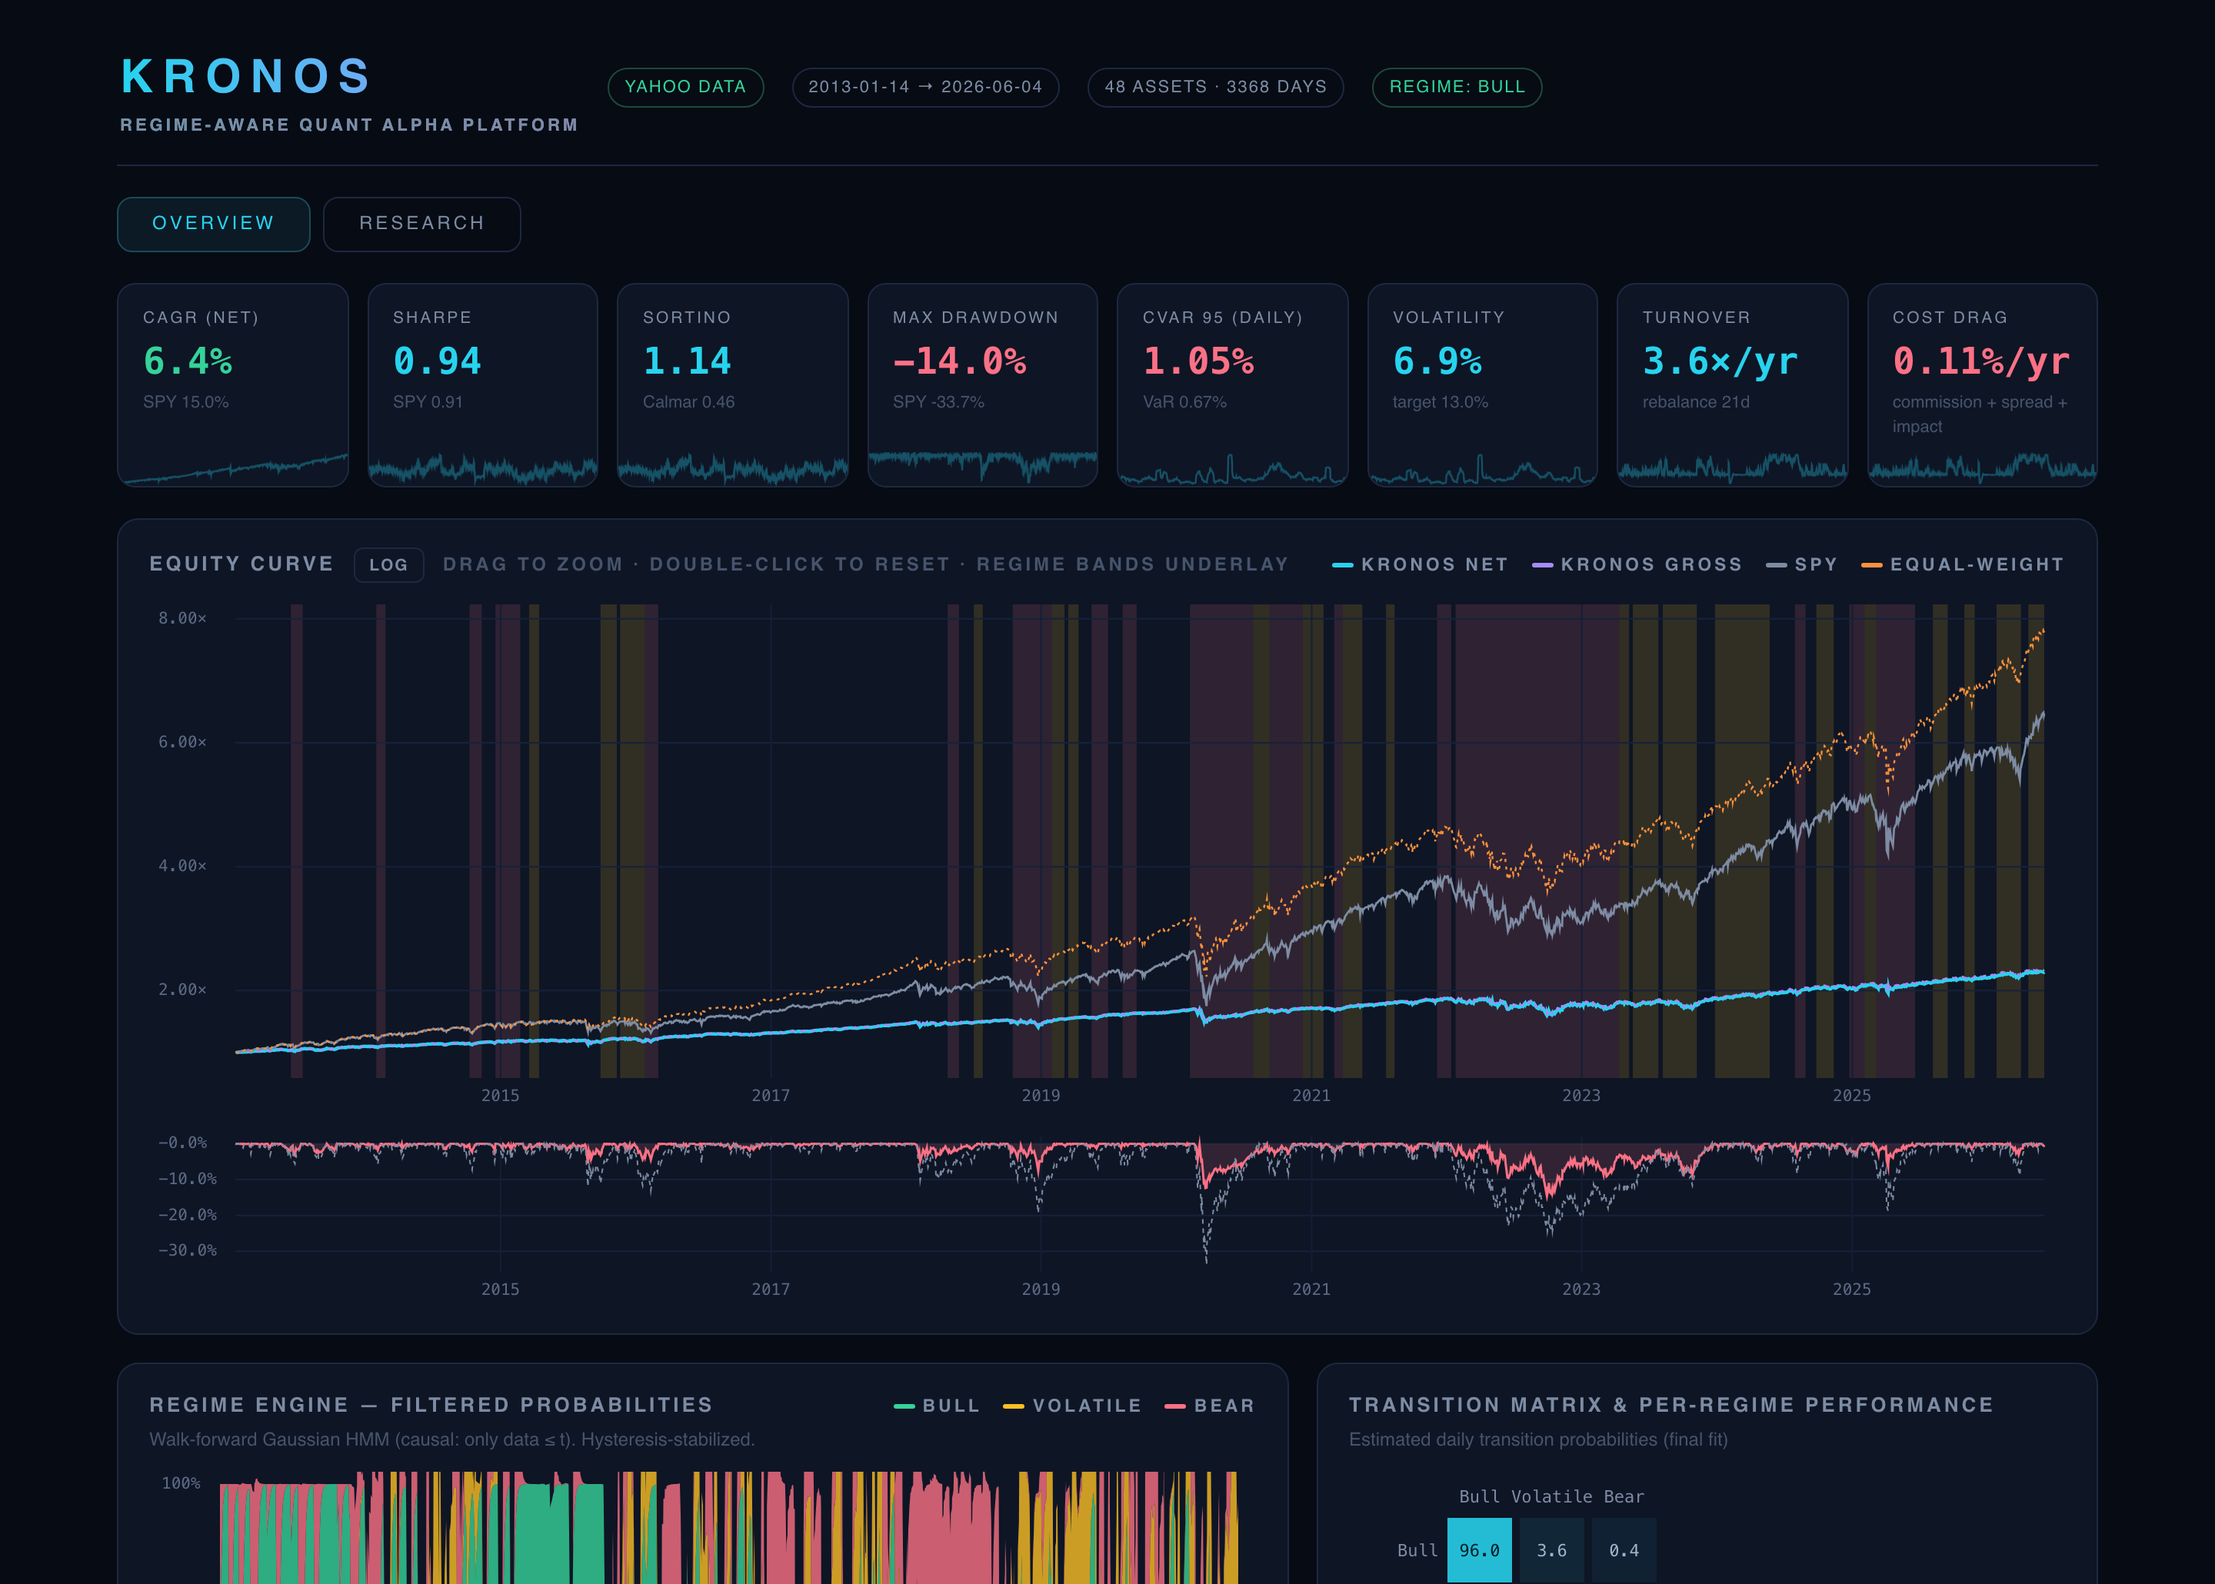
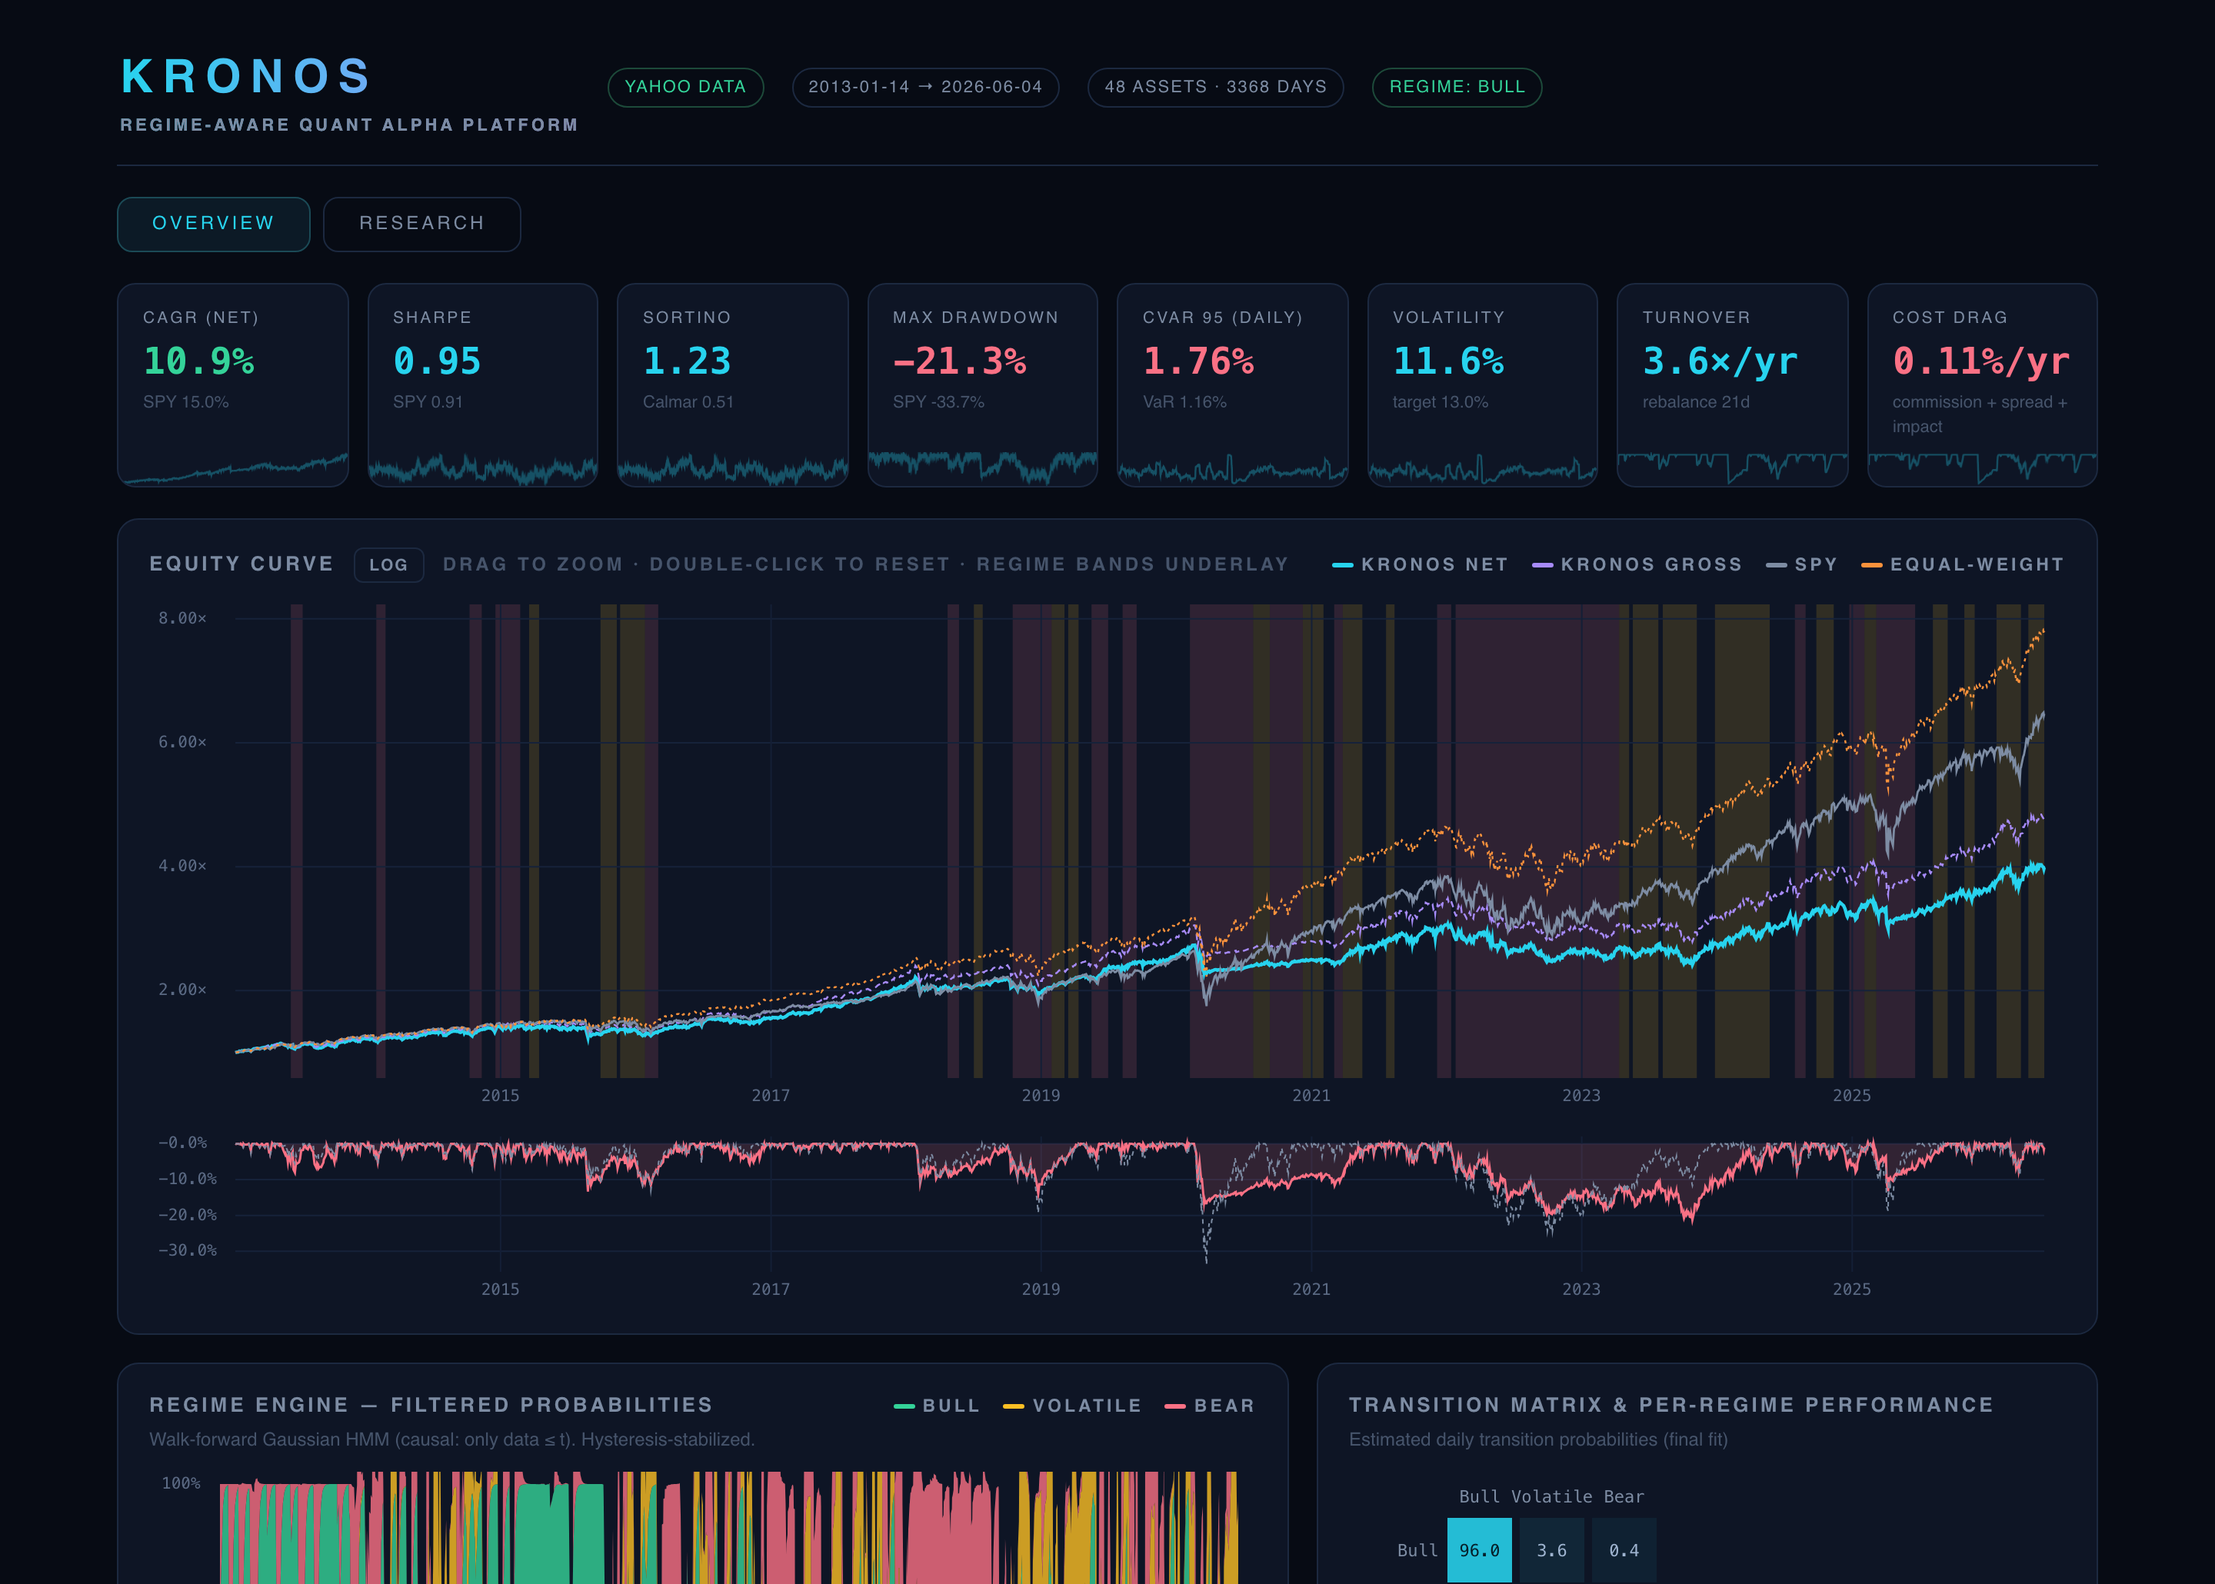
Docs: KRONOS-EDGE results — new headline (Sharpe 0.95 @ 10.9% CAGR), gate count 30 -> 31
README platform table now shows levered + unlevered + SPY with financing and
DSR/PBO caveats restated; EDGE rows in the research table and index; FINDINGS
gains the full EDGE write-up (diagnosis, bug, fix, before/after, trial
accounting); TRADE section updated to post-fix numbers; hero screenshot
regenerated with the repaired equity curve.

diff --git a/README.md b/README.md
@@ -7,7 +7,7 @@
 
 <p align="center">
   <a href="https://github.com/Olivesz/kronos-quant/actions/workflows/ci.yml"><img src="https://github.com/Olivesz/kronos-quant/actions/workflows/ci.yml/badge.svg" alt="CI"></a>
-  <img src="https://img.shields.io/badge/gates-30%20passing-3fb950" alt="gates">
+  <img src="https://img.shields.io/badge/gates-31%20passing-3fb950" alt="gates">
   <img src="https://img.shields.io/badge/python-3.11%2B-3572A5" alt="python">
   <img src="https://img.shields.io/badge/deps-numpy%20%7C%20pandas%20%7C%20scipy-013243" alt="deps">
   <img src="https://img.shields.io/badge/license-MIT-blue" alt="license">
@@ -25,8 +25,8 @@ KRONOS is two things at once:
 1. **A production-shaped quant platform** — data → regime detection → alpha
    sleeves → cost-aware portfolio construction → risk overlay → a
    self-contained interactive dashboard. It runs end-to-end in ~25s and posts a
-   **net Sharpe of 0.94 at −14% max drawdown**, matching the S&P's risk-adjusted
-   return at *less than half* its drawdown.
+   **net Sharpe of 0.95 at 10.9% CAGR** (or Sharpe **1.02** unlevered) — beating
+   the S&P's Sharpe at roughly *two-thirds of its drawdown*.
 
 2. **A research program that treats markets like physics.** 22 pre-registered
    experiments ask what quant finance genuinely does not know — *is volatility
@@ -36,7 +36,7 @@ KRONOS is two things at once:
    results as loudly as the positive ones.
 
 What ties them together is one discipline: **no estimator is trusted until it
-passes a gate on data where the answer is already known.** 30 such gates run in
+passes a gate on data where the answer is already known.** 31 such gates run in
 CI. That is the whole point — the platform grades its own homework.
 
 > **Zero heavyweight dependencies.** No scikit-learn, no statsmodels, no
@@ -68,7 +68,7 @@ python run_research.py all        # 22 research experiments, cached to research/
 python run_kronos.py --research   # dashboard with the RESEARCH tab (open output/dashboard.html)
 python run_trade.py               # today's research-grounded target portfolio
 
-python tests/run_all.py           # all 30 verification gates (~100s)
+python tests/run_all.py           # all 31 verification gates (~100s)
 ```
 
 Runs fully offline: without `yfinance` or a network, a seeded synthetic
@@ -77,7 +77,7 @@ regime-switching market drives the entire pipeline. Force it anywhere with
 
 ## Highlights
 
-- **30 verification gates** — 28 proving an estimator has correct *size*
+- **31 verification gates** — 29 proving an estimator has correct *size*
   (doesn't fire on null worlds) and *power* (detects planted effects) on
   synthetic ground truth, plus 2 calibrating the battery against the real
   market — all before any real-data claim is made.
@@ -116,18 +116,22 @@ prices ─▶ HMM regimes ─▶ regime-gated signals ─▶ HRP + Black-Litterm
 - **Construction** — a Hierarchical-Risk-Parity backbone on a Ledoit-Wolf /
   EWMA-shrunk covariance, tilted toward the combined signal via Black-Litterman,
   long-only with a weight cap.
-- **Risk** — forecast-vol targeting (size *ahead* of volatility, because vol is
-  the forecastable channel) with a drawdown throttle and a CVaR cap, all
-  smoothed and capped at no leverage.
+- **Risk** — vol targeting as the *lever* (up to 1.5×, financing charged on the
+  levered portion) with the CVaR cap and drawdown throttle as *brakes* — the
+  overlay's direction and reach are pinned by their own gate (X27; see
+  [KRONOS-EDGE](docs/FINDINGS.md#kronos-edge--fixing-the-engines-structural-drag)).
 
-| Strategy | CAGR | Sharpe | Max DD | CVaR95 |
-|---|---|---|---|---|
-| **KRONOS (net of costs)** | +6.4% | **0.94** | **−14.0%** | 1.05% |
-| SPY (buy & hold) | +15.0% | 0.91 | −33.7% | 2.55% |
+| Strategy | CAGR | Vol | Sharpe | Max DD | CVaR95 |
+|---|---|---|---|---|---|
+| **KRONOS (net of costs)** | +10.9% | 11.6% | **0.95** | **−21.3%** | 1.76% |
+| KRONOS unlevered (cap 1.0) | +8.8% | 8.7% | **1.02** | −16.4% | 1.31% |
+| SPY (buy & hold) | +15.0% | 16.8% | 0.91 | −33.7% | 2.55% |
 
-*The honest read: KRONOS does **not** beat the S&P on raw return — and says so.
-Its edge is risk-adjusted: the same Sharpe at half the drawdown, exactly the
-claim the research licenses.*
+*The honest read: KRONOS still does **not** beat the S&P on raw return — and
+says so. The edge is risk-adjusted: a better Sharpe at two-thirds of the
+drawdown, with financing costs on leverage disclosed (1.26%/yr) and the
+selection-risk caveats (DSR 0.64, PBO 0.45, N=181 logged trials) restated
+rather than hidden.*
 
 ## The research program
 
@@ -150,6 +154,7 @@ in [`docs/FINDINGS.md`](docs/FINDINGS.md)**:
 | [TRADE](docs/FINDINGS.md#kronos-trade--the-deployable-system) | What system does the science license? | Forecast-vol targeting + regime-gated risk parity + mechanical crash control — risk control, never direction timing. |
 | [TRANSFER](docs/FINDINGS.md#kronos-transfer--does-market-structure-cross-borders) | Do the laws cross borders? | **Mechanism universal, calibration local** — see below. |
 | [CRYPTO](docs/FINDINGS.md#kronos-crypto--do-the-laws-survive-outside-equities) | Do the laws survive outside equities? | Mostly yes — but the **leverage effect inverts** (crypto +0.03 vs equities −0.04; 8/10 coins flip). Mechanism universal; one law is equity-specific. |
+| [EDGE](docs/FINDINGS.md#kronos-edge--fixing-the-engines-structural-drag) | Why is CAGR half the risk budget? | Diagnosis found an **inverted drawdown throttle** (braking at peaks, releasing into crashes) and an unreachable vol target. Fixed + gated: Sharpe 0.94 → 1.02 unlevered; CAGR 6.4% → 10.9% levered. |
 
 ## Cross-market transfer
 
@@ -218,7 +223,7 @@ kronos/                   37 modules, ~7,500 LOC
   rmt.py / ensemble.py    Marchenko-Pastur denoising; Hedge/fixed-share learners
   forensics.py            deflated Sharpe, CSCV-PBO, stationary bootstrap
   metrics.py / dashboard.py  performance stats; 1,700-line self-contained HTML
-tests/                    30 gates (28 synthetic ground truth + 2 real-data calibration)
+tests/                    31 gates (29 synthetic ground truth + 2 real-data calibration)
 docs/                     METHODS, ATLAS, design notes, FINDINGS, research index
 ```
 

diff --git a/docs/FINDINGS.md b/docs/FINDINGS.md
@@ -20,6 +20,7 @@ liquid US equities/ETFs, 2010–2026, Yahoo adjusted OHLC.
 - [KRONOS-TRADE — the deployable system](#kronos-trade--the-deployable-system)
 - [KRONOS-TRANSFER — does market structure cross borders?](#kronos-transfer--does-market-structure-cross-borders)
 - [KRONOS-CRYPTO — do the laws survive outside equities?](#kronos-crypto--do-the-laws-survive-outside-equities)
+- [KRONOS-EDGE — fixing the engine's structural drag](#kronos-edge--fixing-the-engines-structural-drag)
 
 ---
 
@@ -251,14 +252,15 @@ by the research, not by hope:
 - **Mechanical crash control** (drawdown throttle + CVaR cap), because CRITICAL
   proved crashes are unforecastable — you can't predict them, only de-risk.
 
-**Walk-forward backtest (net of costs), 2013–2026:**
+**Walk-forward backtest (net of costs), 2013–2026** (post-DESIGN15 throttle
+fix; no leverage, per this system's own pre-registration):
 
 | Strategy | CAGR | Sharpe | MaxDD | CVaR95 |
 |---|---|---|---|---|
-| **KRONOS-TRADE (forecast-vol)** | 6.4% | **0.94** | **−14%** | 1.04% |
-| Realized-vol control | 6.3% | 0.91 | −14% | 1.06% |
-| SPY (buy & hold) | 15.0% | 0.91 | −34% | 2.55% |
-| Equal-weight | 16.6% | 1.10 | −31% | 2.24% |
+| **KRONOS-TRADE (forecast-vol)** | 9.3% | **1.05** | **−16.5%** | 1.31% |
+| Realized-vol control | 9.0% | 1.01 | −16.7% | 1.34% |
+| SPY (buy & hold) | 15.0% | 0.91 | −33.7% | 2.55% |
+| Equal-weight | 16.6% | 1.10 | −30.5% | 2.24% |
 
 **Verdict (honest, as the research demands):** forecast-vol targeting beats the
 realized-vol control (the magnitude channel *is* the edge); the system matches
@@ -363,3 +365,59 @@ absent. Gate X26 licenses the sign reading: on synthetic worlds with a known
 leverage sign (equity-negative, inverted-positive, symmetric-zero), the
 estimator recovers each with wide separation, so the crypto inversion is a real
 property of the data, not an artifact.
+
+## KRONOS-EDGE — fixing the engine's structural drag
+
+The flagship book posted Sharpe 0.94 at only 6.9% realized vol against a 13%
+target — good risk-adjusted, weak CAGR. Rather than tune parameters at the
+result, we diagnosed **where the return goes** ([DESIGN15](design/DESIGN15.md),
+pre-registered with expectations and kill criteria before the repaired system
+was run).
+
+**The diagnosis:**
+
+- The underlying signal book is strong: **Sharpe 1.04 at 10.45% vol** at
+  exposure 1. The overlay, not the alpha, was the drag.
+- **The drawdown throttle had an inverted sign** — a genuine bug, duplicated in
+  both `risk.py` and `trade.py`. `m_dd = 1 + (dd - dd_start)(1-floor)/span`
+  with a negative `span` yields **0.50 at the high-water mark** (maximum
+  braking at the peak) and **1.0 at −20% drawdown** (brake fully released in a
+  crash) — the intended crash insurance, exactly reversed, with the wrong side
+  hidden by a `clip(…, 1.0)`. Measured: binding on **93.6% of days**, mean
+  multiplier 0.64. The gate suite missed it because no gate tested the
+  overlay's *direction* — that gap is now closed by **gate X27**, which pins
+  m_dd = 1 at the high-water mark, monotone decline to the floor, vol-target
+  attainment, the leverage cap, and financing.
+- **Vol targeting couldn't reach its own target**: a 10.45%-vol book, a 13%
+  target, and an exposure cap of 1.0 — structurally unreachable. Fixed by
+  making the vol multiplier the *lever* (up to `max_exposure = 1.5`, one
+  pre-chosen value, not scanned; **3.5%/yr financing charged daily on the
+  levered portion**) with the CVaR cap and repaired throttle as *brakes*.
+
+**The result (real data, 2013–2026, net of all costs):**
+
+| Variant | CAGR | Vol | Sharpe | MaxDD | financing |
+|---|---|---|---|---|---|
+| baseline (bug, cap 1.0) | 6.4% | 6.9% | 0.94 | −14.0% | — |
+| **fix-only (cap 1.0)** | 8.8% | 8.7% | **1.02** | −16.4% | — |
+| **fix + lever 1.5** | 10.9% | 11.6% | 0.95 | −21.3% | 1.26%/yr |
+| SPY | 15.0% | 16.8% | 0.91 | −33.7% | — |
+
+Every pre-registered expectation landed in its stated range, and both kill
+criteria passed: the fix *raised* Sharpe (the inverted throttle was pure drag —
+it was systematically de-risking at equity highs), and financing consumed ~37%
+of the leverage variant's CAGR gain (under the 50% kill line). The
+DESIGN12 TRADE system, which stays unlevered per its own pre-registration,
+improved to **Sharpe 1.05 at −16.5% MaxDD** from the throttle fix alone — and
+its pre-registered T1 (forecast-vol beats realized-vol targeting) still holds.
+
+**Trial accounting:** exactly two variants were run and both are reported
+above; the ledger grew 179 → 181 and the deflated Sharpe was recomputed:
+**DSR 0.64** (up from 0.60), PBO unchanged at 0.45. The selection-risk caveat
+stands: this is a bug fix plus one structural repair, not a certified edge.
+
+**The meta-lesson** is the project's thesis in miniature: the "mediocre"
+backtest was not weak alpha but a *sign error the test suite had no gate for*.
+The fix came with the missing gate (X27), the change was pre-registered with
+kill criteria, the trial ledger was charged, and the old numbers remain in the
+table above. That is what "optimizing a backtest" should look like.

diff --git a/docs/README.md b/docs/README.md
@@ -33,6 +33,7 @@ arc, or jump to a finding.
 | 12 | [DESIGN12.md](design/DESIGN12.md) | The deployable system | `run_trade.py` — the trading system the research actually licenses (forecast-vol targeting; risk control, not direction timing). |
 | 13 | [DESIGN13.md](design/DESIGN13.md) | Cross-market transfer | The mechanism laws (fat tails, leverage, near-critical branching) reappear abroad; the frozen US-tuned system holds its risk edge in Japan/Europe/Asia-EM. |
 | 14 | [DESIGN14.md](design/DESIGN14.md) | Crypto: laws outside equities | The mechanism transfers to crypto (one-clock collapse, branching), but the **leverage effect inverts** — it's a property of the equity microstructure, not a market universal. |
+| 15 | [DESIGN15.md](design/DESIGN15.md) | The engine's structural drag | Diagnosis found an **inverted drawdown throttle** (a sign bug braking at peaks) and an unreachable vol target; both fixed under pre-registered kill criteria — Sharpe 0.94 → 1.02 unlevered. |
 
 ## How the research maps to code
 
@@ -53,5 +54,6 @@ before real data ever touches the estimator:
 | Trade (12) | `kronos/trade.py` | `tests/test_trade.py` (X23) |
 | Transfer (13) | `kronos/transfer.py` | `tests/test_transfer.py` (X24) |
 | Crypto (14) | `kronos/crypto.py` | `tests/test_crypto.py` (X26) |
+| Edge (15) | `kronos/risk.py`, `kronos/backtest.py` | `tests/test_risk.py` (X27) |
 
 See the top-level [README](../README.md) for the full results tables.
